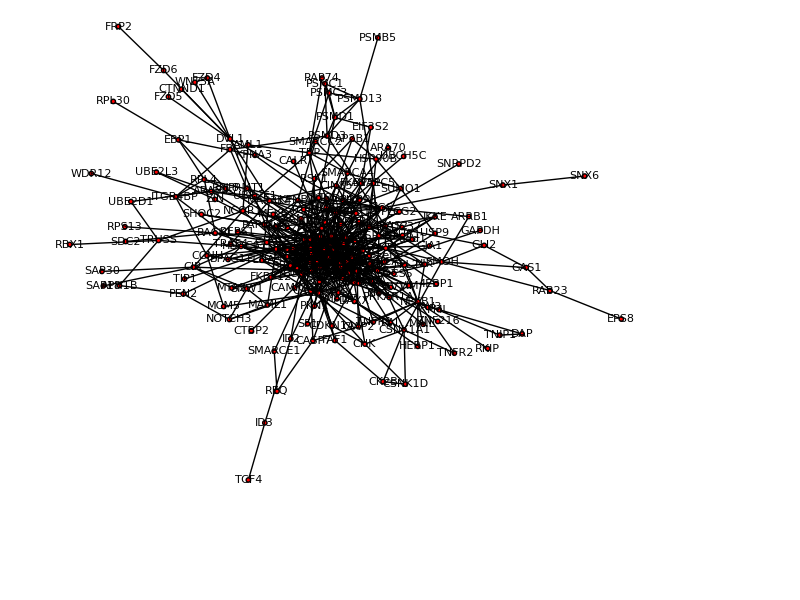
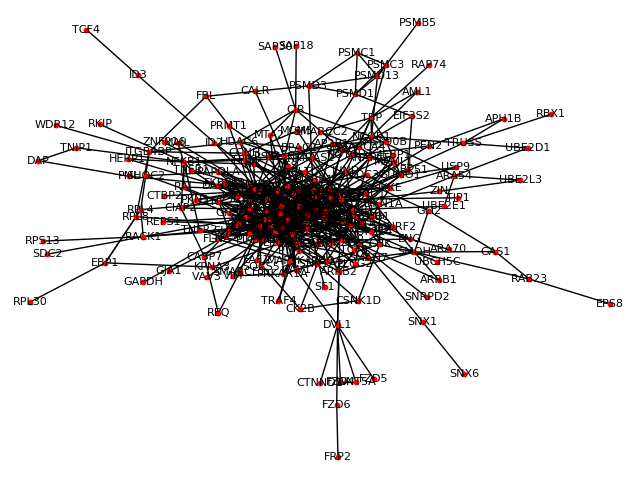
centrality

diff --git a/ppi.py b/ppi.py
@@ -2,6 +2,7 @@ import pandas as pd
 import numpy as np
 import networkx as nx
 import matplotlib.pyplot as plt
+import operator
 
 normal = pd.read_excel("bone_normal.xlsx")
 
@@ -15,12 +16,35 @@ df_normal = list(zip(normal.P1, normal.P2))
 G_normal = nx.Graph()
 G_normal.add_edges_from(df_normal)
 #print(G.neighbors('4EBP1'))
-print(len(df_normal))
+#print(len(df_normal))
 #print(df)
 #print(G.edges())
 #print(G.nodes())
-print(G_normal.number_of_nodes())
-print(G_normal.number_of_edges())
+print("Number of Nodes: ",G_normal.number_of_nodes())
+print("Number of Edges: ",G_normal.number_of_edges())
 pos = nx.spring_layout(G_normal, k=1, iterations=50)
 nx.draw(G_normal, node_size=10, font_size=8, with_labels=True)
 plt.savefig("abc.png")
+
+print("Average Clustering Coefficient: ",nx.average_clustering(G_normal))
+
+print("Number of Cnnected Components: ",nx.number_connected_components(G_normal))
+
+print("Diameter of the graph:  ",nx.diameter(G_normal))
+
+print("Betweenness Centrality: ",nx.betweenness_centrality(G_normal))
+
+degrees = [[node,val] for (node, val) in G_normal.degree()]
+degrees.sort(key=lambda x: x[1],reverse=True)
+
+print("Degree: ",degrees)
+
+
+dict_degree_centrality=nx.degree_centrality(G_normal)
+dict_degree_centrality=sorted(dict_degree_centrality.items(), key=operator.itemgetter(1), reverse=True)
+
+print("Degree Centrality: ",dict_degree_centrality)
+
+
+
+
